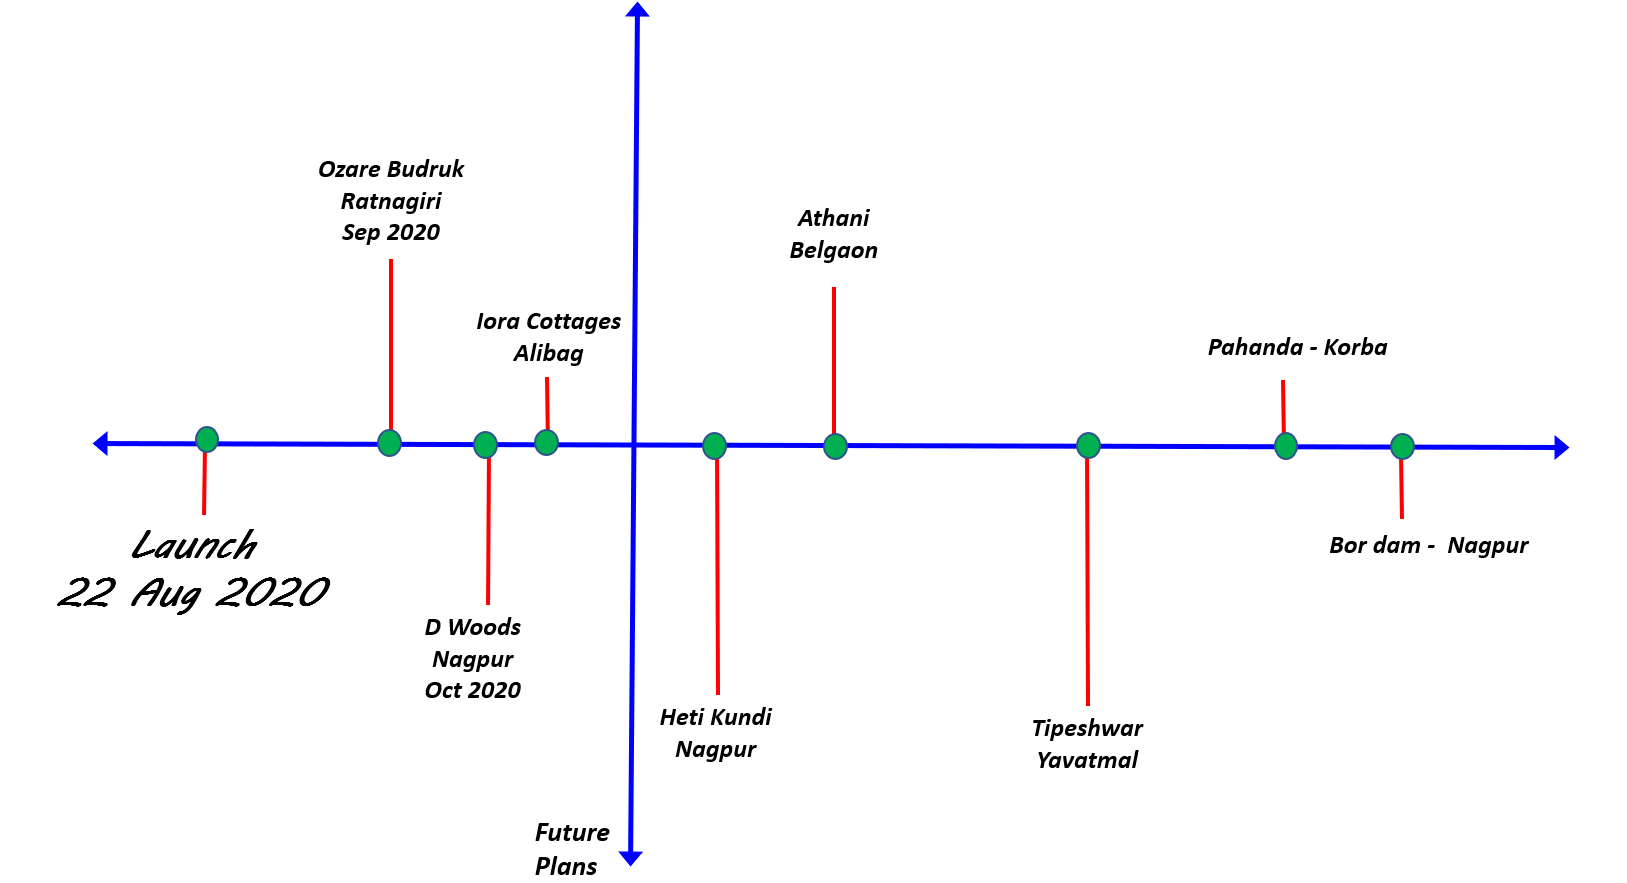
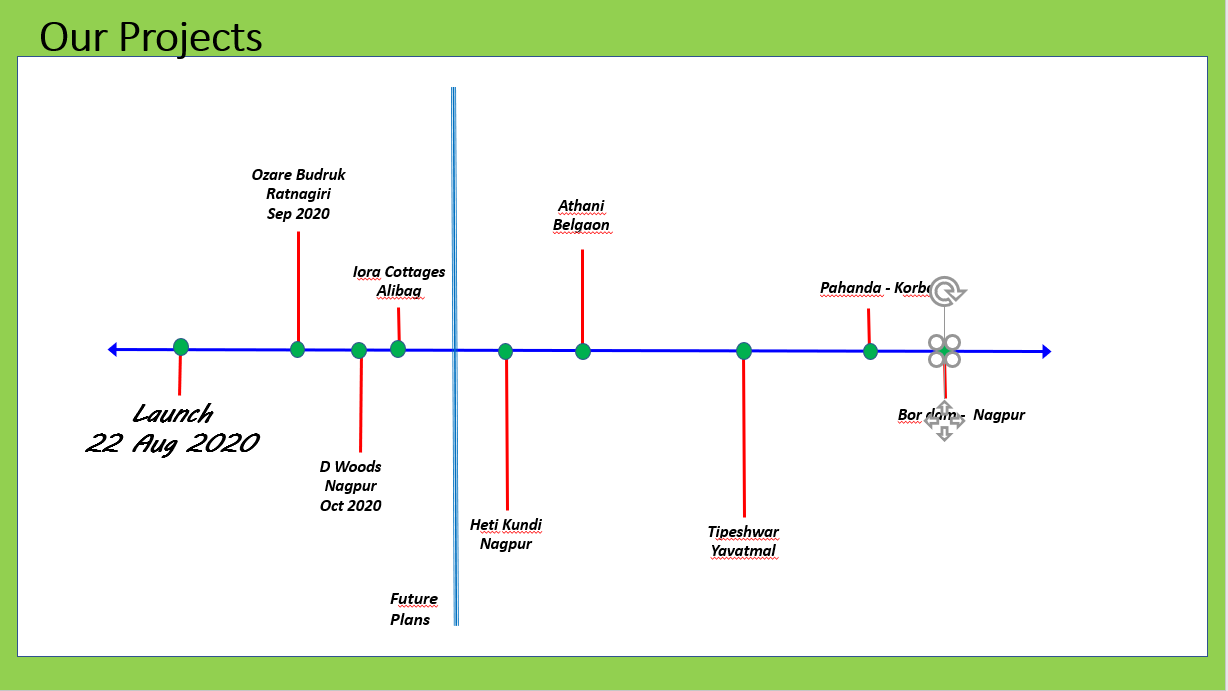
Add pencil art by Shashank

Changed region(s): [[0.0, 0.0, 1.0, 1.0]]

diff --git a/nirvana_arts.html b/nirvana_arts.html
@@ -166,11 +166,13 @@
                 </section>
             </div>
 
-            <!-- Pencil Art - Shashank Dhepe -->
+            <br>
+
+            <!-- Nature Photography - Sagar Mhatre -->
             <div id="content" class="container painting_container">
                 <section>
                     <header class="major painting_section_header">
-                        <h2>Birds of Karnala by Sagar Mhatre (Photography)</h2>
+                        <h2>Nature Photography by Sagar Mhatre</h2>
                     </header>
 
                     <div class="painting_section">
@@ -194,6 +196,156 @@
                     </div>
                 </section>
             </div>
+
+            <br>
+
+            <!-- Pencil Art - Shashank Dhepe -->
+            <div id="content" class="container painting_container">
+                <section>
+                    <header class="major painting_section_header">
+                        <h2>Pencil Nirvana by Shashank Dhepe</h2>
+                    </header>
+
+                    <div class="painting_section">
+                        <div class="painting_row">
+                            <div class="painting_core">
+                                <img
+                                    class="rectangular_painting"
+                                    src="images/pencil_nirvana/0001Shashank30082020.jpg"
+                                />
+                                <h2>0001Shashank30082020</h2>
+                            </div>
+
+                            <div class="painting_core">
+                                <img
+                                    class="rectangular_painting"
+                                    src="images/pencil_nirvana/0002shashank30082020.jpg"
+                                />
+                                <h2>0002shashank30082020</h2>
+                            </div>
+
+                            <div class="painting_core">
+                                <img
+                                    class="rectangular_painting"
+                                    src="images/pencil_nirvana/0003shashank30082020.jpeg"
+                                />
+                                <h2>0003shashank30082020</h2>
+                            </div>
+                        </div>
+                        <div class="painting_row">
+                            <div class="painting_core">
+                                <img
+                                    class="rectangular_painting"
+                                    src="images/pencil_nirvana/0004shashank30082020.jpeg"
+                                />
+                                <h2>0004shashank30082020</h2>
+                            </div>
+
+                            <div class="painting_core">
+                                <img
+                                    class="rectangular_painting"
+                                    src="images/pencil_nirvana/0005shashank30082020.jpeg"
+                                />
+                                <h2>0005shashank30082020</h2>
+                            </div>
+
+                            <div class="painting_core">
+                                <img
+                                    class="rectangular_painting"
+                                    src="images/pencil_nirvana/0006shashank30082020.jpeg"
+                                />
+                                <h2>0006shashank30082020</h2>
+                            </div>
+                        </div>
+                        <div class="painting_row">
+                            <div class="painting_core">
+                                <img
+                                    class="rectangular_painting"
+                                    src="images/pencil_nirvana/0007shashank30082020.jpeg"
+                                />
+                                <h2>0007shashank30082020</h2>
+                            </div>
+
+                            <div class="painting_core">
+                                <img
+                                    class="rectangular_painting"
+                                    src="images/pencil_nirvana/0008shashank30082020.jpeg"
+                                />
+                                <h2>0008shashank30082020</h2>
+                            </div>
+
+                            <div class="painting_core">
+                                <img
+                                    class="rectangular_painting"
+                                    src="images/pencil_nirvana/0009shashank30082020.jpeg"
+                                />
+                                <h2>0009shashank30082020</h2>
+                            </div>
+                        </div>
+                        <div class="painting_row">
+                            <div class="painting_core">
+                                <img
+                                    class="rectangular_painting"
+                                    src="images/pencil_nirvana/0010shashank30082020.jpeg"
+                                />
+                                <h2>0010shashank30082020</h2>
+                            </div>
+
+                            <div class="painting_core">
+                                <img
+                                    class="rectangular_painting"
+                                    src="images/pencil_nirvana/0011shashank30082020.jpeg"
+                                />
+                                <h2>0011shashank30082020</h2>
+                            </div>
+
+                            <div class="painting_core">
+                                <img
+                                    class="rectangular_painting"
+                                    src="images/pencil_nirvana/0012shashank30082020.jpeg"
+                                />
+                                <h2>/0012shashank30082020</h2>
+                            </div>
+                        </div>
+
+                        <div class="painting_row">
+                            <div class="painting_core">
+                                <img
+                                    class="rectangular_painting"
+                                    src="images/pencil_nirvana/0013shashank30082020.jpeg"
+                                />
+                                <h2>0013shashank30082020</h2>
+                            </div>
+
+                            <div class="painting_core">
+                                <img
+                                    class="rectangular_painting"
+                                    src="images/pencil_nirvana/0014shashank30082020.jpeg"
+                                />
+                                <h2>0014shashank30082020</h2>
+                            </div>
+                            <div class="painting_core">
+                                <img
+                                    class="rectangular_painting"
+                                    src="images/pencil_nirvana/0016shashank30082020.jpeg"
+                                />
+                                <h2>Bald Eagle</h2>
+                            </div>
+                        </div>
+
+                        <div class="painting_row">
+                            <div class="painting_core">
+                                <img
+                                    class="rectangular_painting"
+                                    src="images/pencil_nirvana/0017shashank30082020.jpeg"
+                                />
+                                <h2>Serene Moonlight</h2>
+                            </div>
+                        </div>
+                    </div>
+                </section>
+            </div>
+
         </div>
         <div id="footer"></div>
     </body>

diff --git a/what-we-do.html b/what-we-do.html
@@ -168,6 +168,16 @@
                                 </ul>
                             </section>
                         </div>
+
+                        <div class="timeline_outer_container">
+                            <div id="timeline" class="timeline_container">
+                                <h2>Our Projects</h2>
+                                <div class="timeline_img">
+                                    <img src="/images/timeline.png" />
+                                </div>
+                            </div>
+                        </div>
+                        
                     </div>
 
                     <!-- Sidebar -->
@@ -192,15 +202,6 @@
                             </ul>
                         </section>
                     </div>
-                </div>
-            </div>
-        </div>
-
-        <div class="timeline_outer_container">
-            <div id="timeline" class="timeline_container">
-                <h2>Our Projects</h2>
-                <div class="timeline_img">
-                    <img src="/images/timeline.png" />
                 </div>
             </div>
         </div>

diff --git a/css/style.css b/css/style.css
@@ -960,11 +960,9 @@ input[type="button"].small,
     display: flex;
     justify-content: center;
     flex-direction: column;
-    width: 80%;
 }
 
 .timeline_container h2 {
-    text-transform: uppercase;
     font-size: 2.6rem;
 }
 
@@ -990,7 +988,7 @@ input[type="button"].small,
 .painting_row {
     display: flex;
     flex-direction: row;
-    justify-content: center;
+    justify-content: space-around;
     width: 100%;
 }
 
@@ -1001,7 +999,8 @@ input[type="button"].small,
 }
 
 .painting_core img {
-    
+    max-width: 100%;
+    max-height: 100%;
     align-self: center;
 }
 
@@ -1018,6 +1017,7 @@ input[type="button"].small,
 .painting_section_header h2 {
     line-height: 2rem;
     margin-top: 2rem;
+    color: #82b440;
 }
 
 .painting_core h2 {

diff --git a/css/style-mobile.css b/css/style-mobile.css
@@ -249,3 +249,13 @@
 	align-self: center;
 	margin: 2rem;
 }
+
+/* Timeline */
+.timeline_container {
+	width: 100%;
+}
+
+.timeline_container h2 {
+    font-size: 1.6rem;
+    height: 1.2rem;
+}
